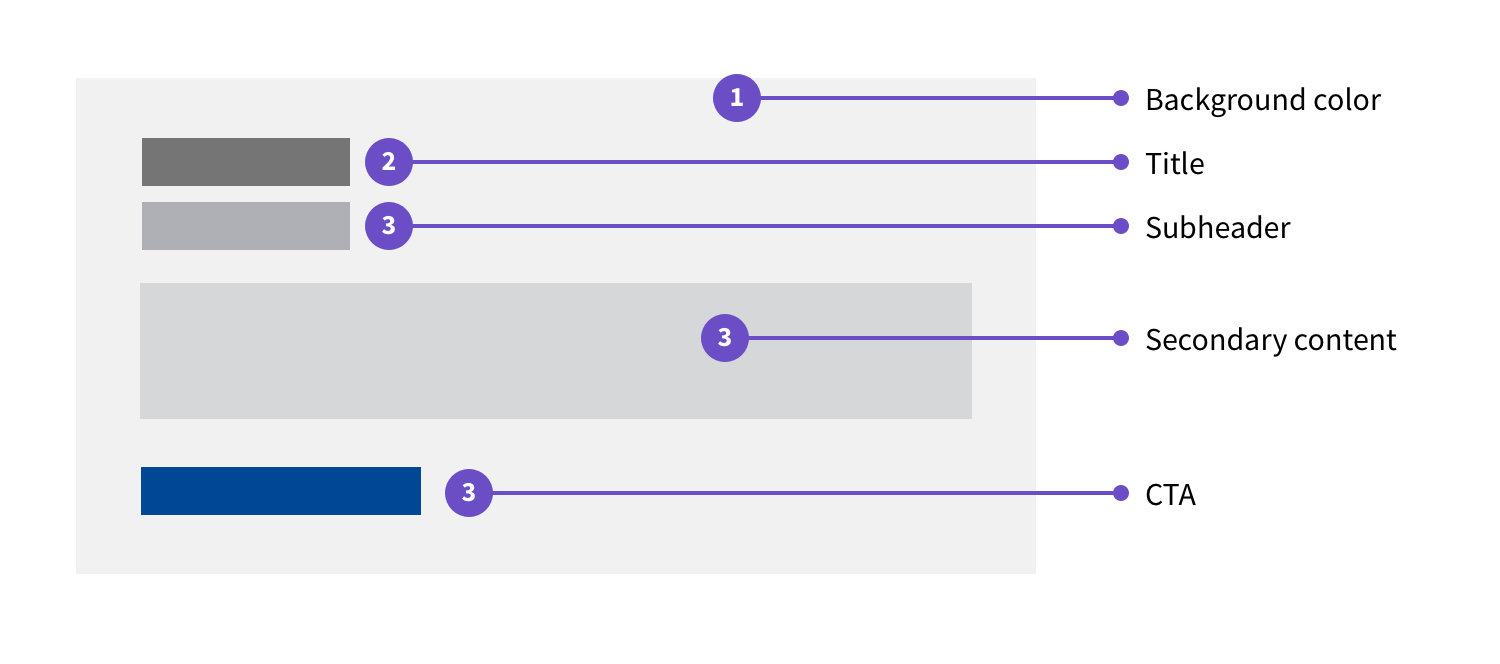
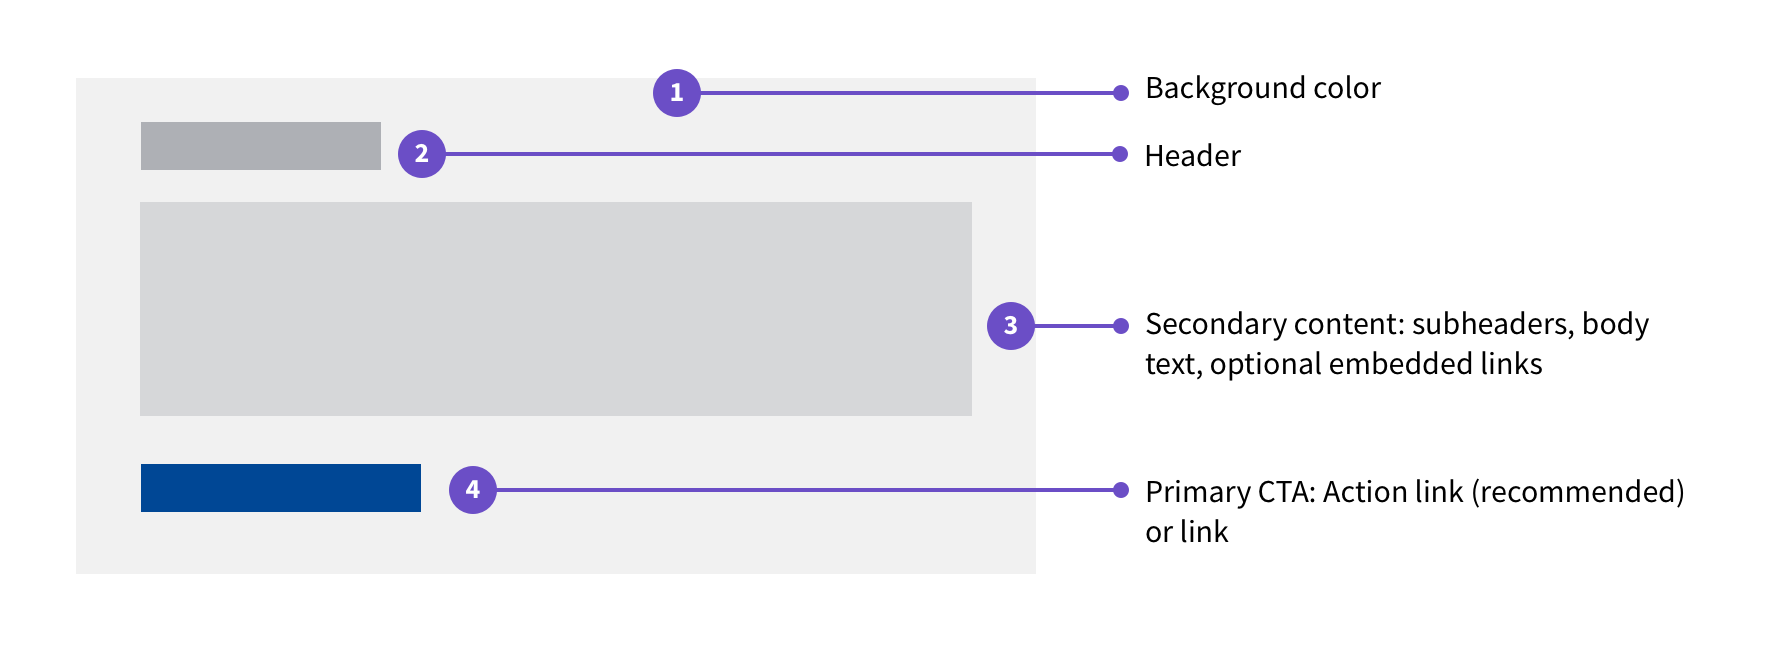
Fixes up the annotations. Adds statuses for claims, appointments, and appeals. [Amends #600]

diff --git a/src/_components/card.md b/src/_components/card.md
@@ -22,20 +22,40 @@ anchors:
 
 ### Anatomy
 
+#### Basic
+
 ![Basic card]({{ site.baseurl }}/images/components/card/annotated.png) 
 
 1. **Background color.** Currently [$color-gray-lightest]({{ site.baseurl }}/foundation/color-palette#grayscale).
-2. **Title.** A header that clearly summarizes card content. 
-3. **Subheader.** Subheader or body text. May communicate a status.
+2. **Header.** Header that summarizes the card's content.
+3. **Secondary content.** Body text. Includes next steps and bold dates/times to draw attention to the most important details on the card.
+4. **Call to action.** An [action link]({{ site.baseurl }}/components/link/action) should be used for the primary call-to-action. A [link]({{ site.baseurl }}/components/link) may also be used.
+
+#### Status via Tag
+
+![Status card via Tag]({{ site.baseurl }}/images/components/card/status.png)
+
+Use this variation when you have a short status which can use the [Tag component]({{ site.baseurl }}/components/tag).
+
+1. **Background color.** Currently [$color-gray-lightest]({{ site.baseurl }}/foundation/color-palette#grayscale).
+2. **Status.** Status using the [Tag component]({{ site.baseurl }}/components/tag).
+3. **Header.** Header that summarizes the card's content.
 4. **Secondary content.** Body text. Includes next steps and bold dates/times to draw attention to the most important details on the card.
-5. **Call to action.** An [action link]({{ site.baseurl }}/components/link/action) should be used for the primary call-to-action.
+5. **Call to action.** An [action link]({{ site.baseurl }}/components/link/action) should be used for the primary call-to-action. A [link]({{ site.baseurl }}/components/link) may also be used.
 
-Optional elements for cards include:
+#### Status via label with indicator
 
-![Status card]({{ site.baseurl }}/images/components/card/status.png)
+![Status card via label with indicator]({{ site.baseurl }}/images/components/card/status-long-label.png)
 
-1. [Tag component]({{ site.baseurl }}/components/tag)
-2. Status indicator badge
+Use this variation when you have a longer status label.
+
+1. **Background color.** Currently [$color-gray-lightest]({{ site.baseurl }}/foundation/color-palette#grayscale).
+2. **Header.** Header that summarizes the card's content.
+3. **Status.** Status with indicator. Accommodates longer status labels.
+4. **Secondary content.** Body text. Includes next steps and bold dates/times to draw attention to the most important details on the card.
+5. **Call to action.** An [action link]({{ site.baseurl }}/components/link/action) should be used for the primary call-to-action. A [link]({{ site.baseurl }}/components/link) may also be used.
+
+You can see these options in use in the [variations](#variations) below.
 
 ## Usage
 
@@ -158,6 +178,19 @@ A radio button tile has a title and description within the label and a Card-like
 
 * **Concise headers and text.** Keep card content (especially [header text]({{ site.baseurl }}/content-style-guide/page-titles-and-section-titles#section-titles)) short, crisp, and to-the-point: Users should be able to glean the most important information at-a-glance, and have the option to view additional details by clicking a link or action link.
 * **Translation proof.** Avoid using dynamic content within the middle of a sentence to future-proof the card for translation.
+* **Statuses**: Currently, the following status names that are known to be in-use:
+  * [Appeals](https://www.va.gov/resources/what-your-decision-review-or-appeal-status-means/) has over 40 status labels.
+  * Appointments:
+    * Upcoming
+    * Requested
+    * Past
+    * Canceled
+  * [Claims](https://www.va.gov/resources/what-your-claim-status-means/):
+    * Claim received
+    * Initial review
+    * Evidence gathering, review, and decision
+    * Preparation for notification
+    * Complete
 
 ## Accessibility considerations
 
